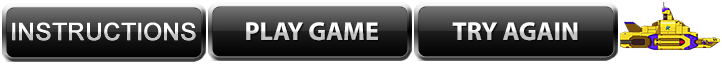
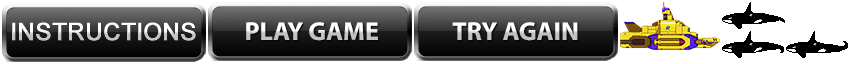
Added the whale animated sprites

diff --git a/subAssault/Scripts/managers/collision.ts b/subAssault/Scripts/managers/collision.ts
@@ -1,4 +1,4 @@
-/// <reference path="../objects/cloud.ts" />
+/// <reference path="../objects/whale.ts" />
 /// <reference path="../objects/island.ts" />
 /// <reference path="../objects/sub.ts" />
 /// <reference path="../objects/scoreboard.ts" />
@@ -9,13 +9,13 @@ module managers {
         // class variables
         private sub: objects.Sub;
         private island: objects.Island;
-        private clouds = [];
+        private whales = [];
         private scoreboard: objects.Scoreboard;
 
-        constructor(plane: objects.Sub, island: objects.Island, clouds, scoreboard: objects.Scoreboard) {
-            this.sub = plane;
+        constructor(sub: objects.Sub, island: objects.Island, whales, scoreboard: objects.Scoreboard) {
+            this.sub = sub;
             this.island = island;
-            this.clouds = clouds;
+            this.whales = whales;
             this.scoreboard = scoreboard;
         }
 
@@ -36,18 +36,18 @@ module managers {
             return result;
         }
 
-        // check collision between plane and any cloud object
-        private planeAndCloud(cloud: objects.Cloud) {
+        // check collision between plane and any whale object
+        private subAndWhale(whale: objects.Whale) {
             var p1: createjs.Point = new createjs.Point();
             var p2: createjs.Point = new createjs.Point();
             p1.x = this.sub.image.x;
             p1.y = this.sub.image.y;
-            p2.x = cloud.image.x;
-            p2.y = cloud.image.y;
-            if (this.distance(p1, p2) < ((this.sub.height / 2) + (cloud.height / 2))) {
+            p2.x = whale.image.x;
+            p2.y = whale.image.y;
+            if (this.distance(p1, p2) < ((this.sub.height / 2) + (whale.height / 2))) {
                 createjs.Sound.play("thunder");
                 this.scoreboard.lives -= 1;
-                cloud.reset();
+                whale.reset();
             }
         }
 
@@ -69,8 +69,8 @@ module managers {
 
         // Utility Function to Check Collisions
         update() {
-            for (var count = 0; count < constants.CLOUD_NUM; count++) {
-                this.planeAndCloud(this.clouds[count]);
+            for (var count = 0; count < constants.WHALE_NUM; count++) {
+                this.subAndWhale(this.whales[count]);
             }
             this.subAndIsland();
         }

diff --git a/subAssault/Scripts/states/play.ts b/subAssault/Scripts/states/play.ts
@@ -1,5 +1,5 @@
 /// <reference path="../objects/button.ts" />
-/// <reference path="../objects/cloud.ts" />
+/// <reference path="../objects/whale.ts" />
 /// <reference path="../objects/island.ts" />
 /// <reference path="../objects/label.ts" />
 /// <reference path="../objects/ocean.ts" />
@@ -12,8 +12,8 @@ module states {
         island.update();
         sub.update();
 
-        for (var count = 0; count < constants.CLOUD_NUM; count++) {
-            clouds[count].update();
+        for (var count = 0; count < constants.WHALE_NUM; count++) {
+            whales[count].update();
         }
 
         collision.update();
@@ -43,15 +43,15 @@ module states {
         stage.cursor = "none";
 
         // Create multiple clouds
-        for (var count = 0; count < constants.CLOUD_NUM; count++) {
-            clouds[count] = new objects.Cloud(stage, game);
+        for (var count = 0; count < constants.WHALE_NUM; count++) {
+            whales[count] = new objects.Whale(stage, game);
         }
 
         // Display Scoreboard
         scoreboard = new objects.Scoreboard(stage, game);
 
         // Instantiate Collision Manager
-        collision = new managers.Collision(sub, island, clouds, scoreboard);
+        collision = new managers.Collision(sub, island, whales, scoreboard);
 
         stage.addChild(game);
     }

diff --git a/subAssault/Scripts/managers/asset.ts b/subAssault/Scripts/managers/asset.ts
@@ -2,7 +2,7 @@
     // Image and Sound Manifest;
     var assetManifest = [
         { id: "ocean", src: "assets/images/ocean.png" },
-        { id: "engine", src: "assets/sounds/engine.ogg" }
+        { id: "engine1", src: "assets/sounds/engine.ogg" }
     ];
 
     // SpriteSheet Data Object
@@ -12,11 +12,17 @@
             [620, 2, 100, 48],
             [2, 2, 204, 60],
             [208, 2, 204, 59],
-            [414, 2, 204, 59]
+            [414, 2, 204, 59],
+            [722, 31, 62, 27],
+            [722, 2, 63, 27],
+            [786, 31, 62, 27]
         ],
         "animations": {
             "sub": [0],
-            "cloud": [0],
+            "whale": {
+                frames: [5, 6, 5, 4],
+                speed: 0.2
+            },
             "island": [0],
             "instructionsButton": [1],
             "playButton": [2],

diff --git a/subAssault/Scripts/objects/whale.ts b/subAssault/Scripts/objects/whale.ts
@@ -1,7 +1,7 @@
 /// <reference path="../managers/asset.ts" />
 module objects {
-    // Cloud class
-    export class Cloud {
+    // Whale class
+    export class Whale {
         image: createjs.Sprite;
         stage: createjs.Stage;
         game: createjs.Container;
@@ -11,7 +11,7 @@ module objects {
         constructor(stage: createjs.Stage, game: createjs.Container) {
             this.stage = stage;
             this.game = game;
-            this.image = new createjs.Sprite(managers.Assets.atlas, "cloud");
+            this.image = new createjs.Sprite(managers.Assets.atlas, "whale");
             this.width = this.image.getBounds().width;
             this.height = this.image.getBounds().height;
             this.image.regX = this.width / 2;

diff --git a/subAssault/Scripts/game.ts b/subAssault/Scripts/game.ts
@@ -1,6 +1,6 @@
 /// <reference path="constants.ts" />
 /// <reference path="managers/asset.ts" />
-/// <reference path="objects/cloud.ts" />
+/// <reference path="objects/whale.ts" />
 /// <reference path="objects/island.ts" />
 /// <reference path="objects/ocean.ts" />
 /// <reference path="objects/sub.ts" />
@@ -19,7 +19,7 @@ var game: createjs.Container;
 var ocean: objects.Ocean;
 var sub: objects.Sub;
 var island: objects.Island;
-var clouds = [];
+var whales = [];
 var scoreboard: objects.Scoreboard;
 
 var collision: managers.Collision;

diff --git a/subAssault/index.html b/subAssault/index.html
@@ -19,7 +19,7 @@
     <script src="Scripts/lib/preloadjs-0.4.1.min.js"></script>
     <script src="Scripts/constants.js"></script>
     <script src="Scripts/managers/asset.js"></script>
-    <script src="Scripts/objects/cloud.js"></script>
+    <script src="Scripts/objects/whale.js"></script>
     <script src="Scripts/objects/island.js"></script>
     <script src="Scripts/objects/ocean.js"></script>
     <script src="Scripts/objects/sub.js"></script>

diff --git a/subAssault/Scripts/states/menu.ts b/subAssault/Scripts/states/menu.ts
@@ -3,7 +3,7 @@
 /// <reference path="../objects/sub.ts" />
 /// <reference path="../objects/ocean.ts" />
 /// <reference path="../objects/island.ts" />
-/// <reference path="../objects/cloud.ts" />
+/// <reference path="../objects/whale.ts" />
 /// <reference path="../objects/button.ts" />
 /// <reference path="../objects/label.ts" />
 module states {

diff --git a/subAssault/Scripts/states/gameover.ts b/subAssault/Scripts/states/gameover.ts
@@ -1,6 +1,6 @@
 /// <reference path="../constants.ts" />
 /// <reference path="../objects/button.ts" />
-/// <reference path="../objects/cloud.ts" />
+/// <reference path="../objects/whale.ts" />
 /// <reference path="../objects/island.ts" />
 /// <reference path="../objects/label.ts" />
 /// <reference path="../objects/ocean.ts" />

diff --git a/subAssault/Scripts/constants.ts b/subAssault/Scripts/constants.ts
@@ -5,7 +5,7 @@
     export var GAME_OVER_STATE: number = 2;
 
     // Game Constants
-    export var CLOUD_NUM: number = 3;
+    export var WHALE_NUM: number = 3;
     export var LABEL_FONT = "40px Consolas";
     export var LABEL_COLOUR = "#FFFF00";
     export var SUB_LIVES = 3;
